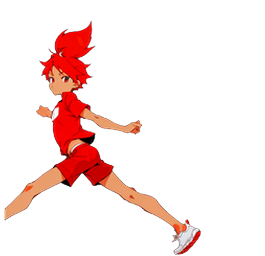
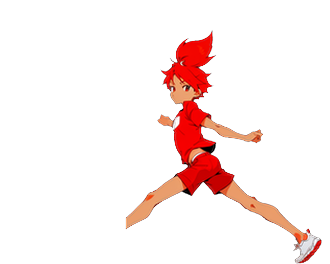
修复角色跑步为完整人物帧

Changed region(s): [[0.0, 0.0938, 0.9962, 1.0]]

diff --git a/jump-runner/js/player.js b/jump-runner/js/player.js
@@ -245,8 +245,24 @@ class Player {
           });
           Sprites.draw(ctx, skin.sprite, this.slide > 0 ? 'duck' : 'hold1', x, y, 63, true);
         }
+      } else if (
+        this.grounded &&
+        this.slide <= 0 &&
+        actorPoseFor(poseKey) &&
+        actorImg(skin.sprite, actorPoseFor(poseKey))
+      ) {
+        // 完整 AI 跑步帧优先：头、身体和双腿保持同一套人物画风
+        const bodyC = poseCanvas(skin, poseKey, (pc) =>
+          Player.drawChibi(pc, skin, chibiOpts),
+        );
+        const bob = -Math.abs(Math.sin(this.run)) * 1.5;
+        ctx.save();
+        ctx.translate(x, y + bob);
+        ctx.scale(this.sx, this.sy);
+        ctx.drawImage(bodyC, -POSE_OX, -POSE_OY, POSE_BOX_W, POSE_BOX_H);
+        ctx.restore();
       } else if (this.grounded && this.slide <= 0 && actorImg(skin.sprite, 'puppet-torso')) {
-        // 纸娃娃跑步：AI 躯干 + 程序化步态（支撑脚零滑动）
+        // 跑步帧加载失败时的回退：AI 躯干 + 程序化步态
         ctx.save();
         ctx.translate(x, y);
         ctx.scale(this.sx, this.sy);
@@ -1265,6 +1281,7 @@ Player.drawPuppet = drawPuppet;
 Player.loadActors = loadActors;
 Player.actorsSettled = actorsSettled;
 Player.actorImg = actorImg;
+Player.actorPoseFor = actorPoseFor;
 Player.drawActor = drawActor;
 Player.RIDE_DRAW_H = RIDE_DRAW_H;
 Player.ACTOR_H = ACTOR_H;

diff --git a/test/run.js b/test/run.js
@@ -135,8 +135,20 @@ function playLives(game, lives, maxSecPerLife) {
   return { scores, coinsTotal, renders };
 }
 
-// ================= 测试 =================
-console.log('1) 状态机：菜单 -> 点击开始 -> 游戏中');
+console.log('0) 角色跑步帧映射：地面相位使用完整人物资源');
+{
+  const Player = require('../jump-runner/js/player');
+  const expected = ['run1', 'run1', 'run2', 'run2', 'run3', 'run3', 'run4', 'run4'];
+  for (let i = 0; i < expected.length; i++) {
+    check(Player.actorPoseFor('run' + i) === expected[i],
+      'run' + i + ' 映射到 ' + expected[i]);
+  }
+  check(Player.actorPoseFor('air0') === 'jump', '上升姿势使用 jump 全身图');
+  check(Player.actorPoseFor('air4') === 'fall', '下落姿势使用 fall 全身图');
+  check(Player.actorPoseFor('slide') === 'slide', '滑铲姿势使用 slide 全身图');
+}
+
+
 {
   const game = newGame();
   check(game.state === 'menu', '初始状态为 menu');
